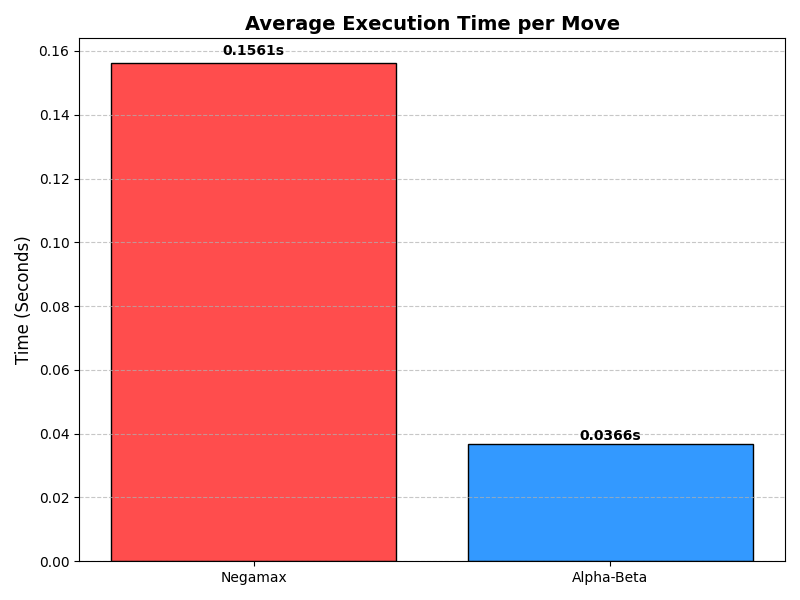
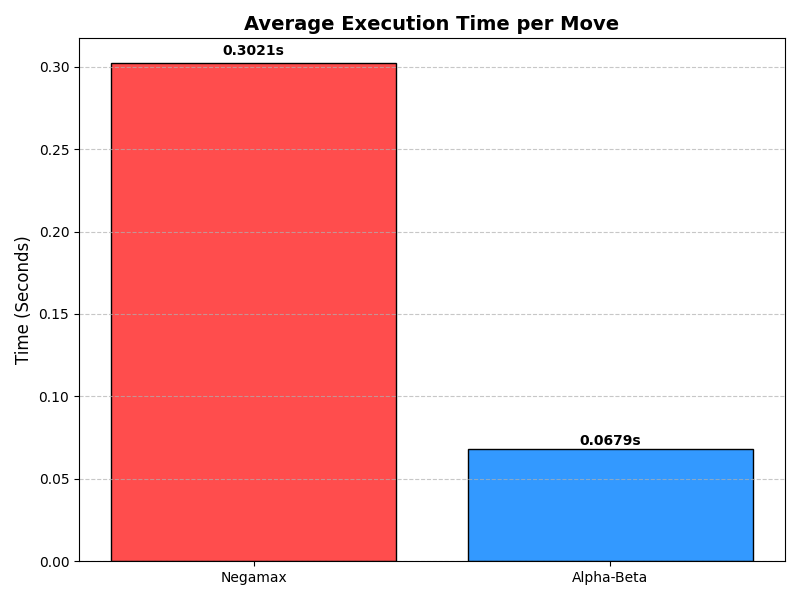
42 depth

diff --git a/Code/Minmax.py b/Code/Minmax.py
@@ -5,7 +5,7 @@ import time  # Metric: Import time library
 
 # Metric: Global counter for nodes
 NODES_VISITED = 0
-SEARCH_DEPTH = 5
+SEARCH_DEPTH = 42
 
 def negmax(position, depth):
     # Metric: Increment counter every time the function is called

diff --git a/Code/alphabeta.py b/Code/alphabeta.py
@@ -5,7 +5,7 @@ import time # Metric: Import time library
 
 # Metric: Global counter for nodes
 NODES_VISITED = 0
-SEARCH_DEPTH = 5
+SEARCH_DEPTH = 42
 
 def alphabeta(position, depth, alpha, beta):
     # Metric: Increment counter
